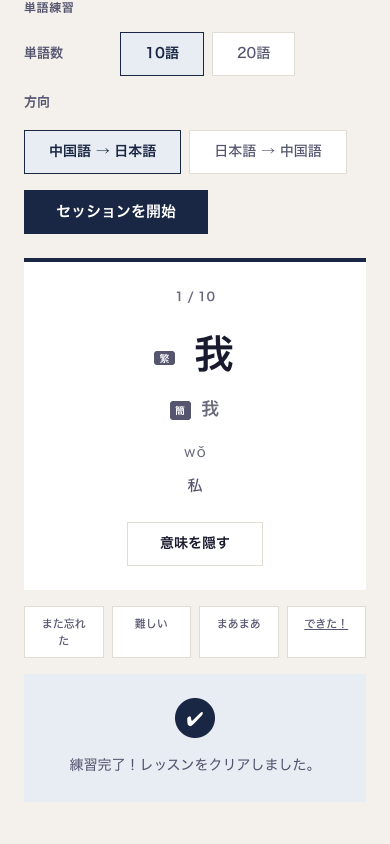
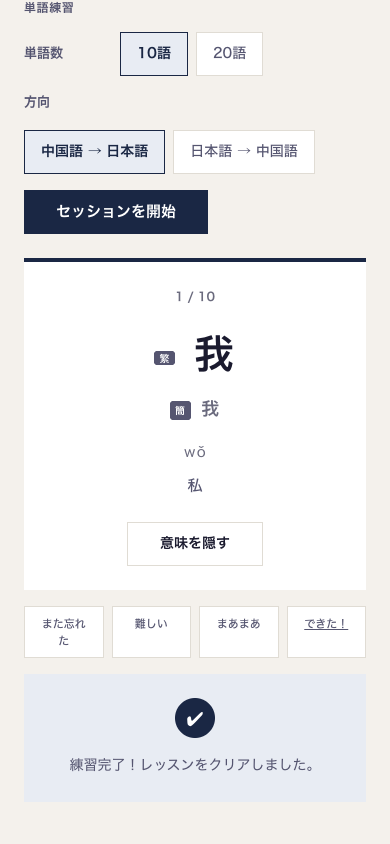
fix: add flex-wrap to setup options for narrow screens, add lang=ja to script badges

diff --git a/docs/design/prototypes/direction-c-city-exploration.html b/docs/design/prototypes/direction-c-city-exploration.html
@@ -650,11 +650,12 @@
   }
   .vocab-setup__options {
     display: flex;
+    flex-wrap: wrap;
     gap: var(--space-sm);
   }
   .vocab-setup__btn {
     min-height: 44px;
-    padding: var(--space-sm) var(--space-lg);
+    padding: var(--space-sm) var(--space-md);
     border: 1px solid var(--color-border);
     background: var(--color-surface);
     font-family: inherit;
@@ -1102,8 +1103,8 @@
       <!-- Flashcard (hidden state) -->
       <div class="vocab-card" id="vocab-hidden-1">
         <div class="vocab-card__count">1 / 10</div>
-        <div class="vocab-card__zh" lang="zh-Hant"><span class="vocab-label">繁</span> 我</div>
-        <div class="vocab-card__zh-simplified" lang="zh-Hans"><span class="vocab-label">簡</span> 我</div>
+        <div class="vocab-card__zh" lang="zh-Hant"><span class="vocab-label" lang="ja">繁</span> 我</div>
+        <div class="vocab-card__zh-simplified" lang="zh-Hans"><span class="vocab-label" lang="ja">簡</span> 我</div>
         <div class="vocab-card__ja-hidden" aria-hidden="true">？？？</div>
         <a href="#vocab-revealed-1" class="vocab-card__action">意味を表示</a>
       </div>
@@ -1111,8 +1112,8 @@
       <!-- Flashcard (revealed state) -->
       <div class="vocab-card" id="vocab-revealed-1">
         <div class="vocab-card__count">1 / 10</div>
-        <div class="vocab-card__zh" lang="zh-Hant"><span class="vocab-label">繁</span> 我</div>
-        <div class="vocab-card__zh-simplified" lang="zh-Hans"><span class="vocab-label">簡</span> 我</div>
+        <div class="vocab-card__zh" lang="zh-Hant"><span class="vocab-label" lang="ja">繁</span> 我</div>
+        <div class="vocab-card__zh-simplified" lang="zh-Hans"><span class="vocab-label" lang="ja">簡</span> 我</div>
         <div class="vocab-card__pinyin" lang="zh-Latn">wǒ</div>
         <div class="vocab-card__ja-revealed">私</div>
         <a href="#vocab-hidden-1" class="vocab-card__action">意味を隠す</a>
